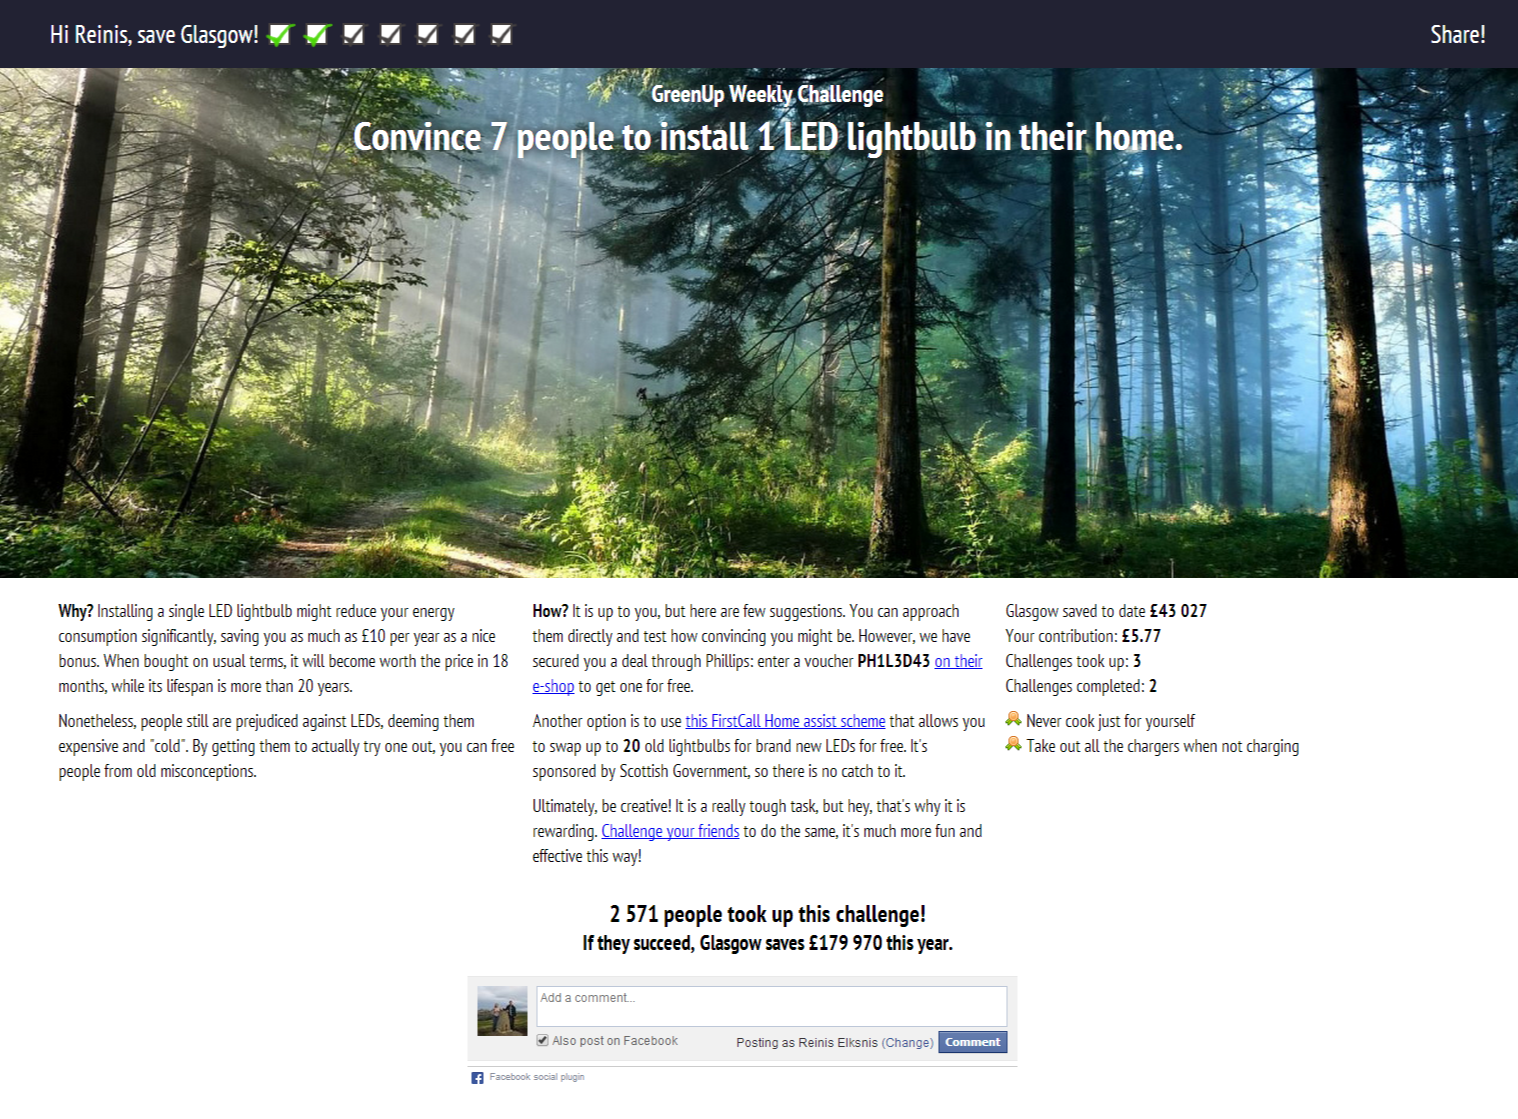
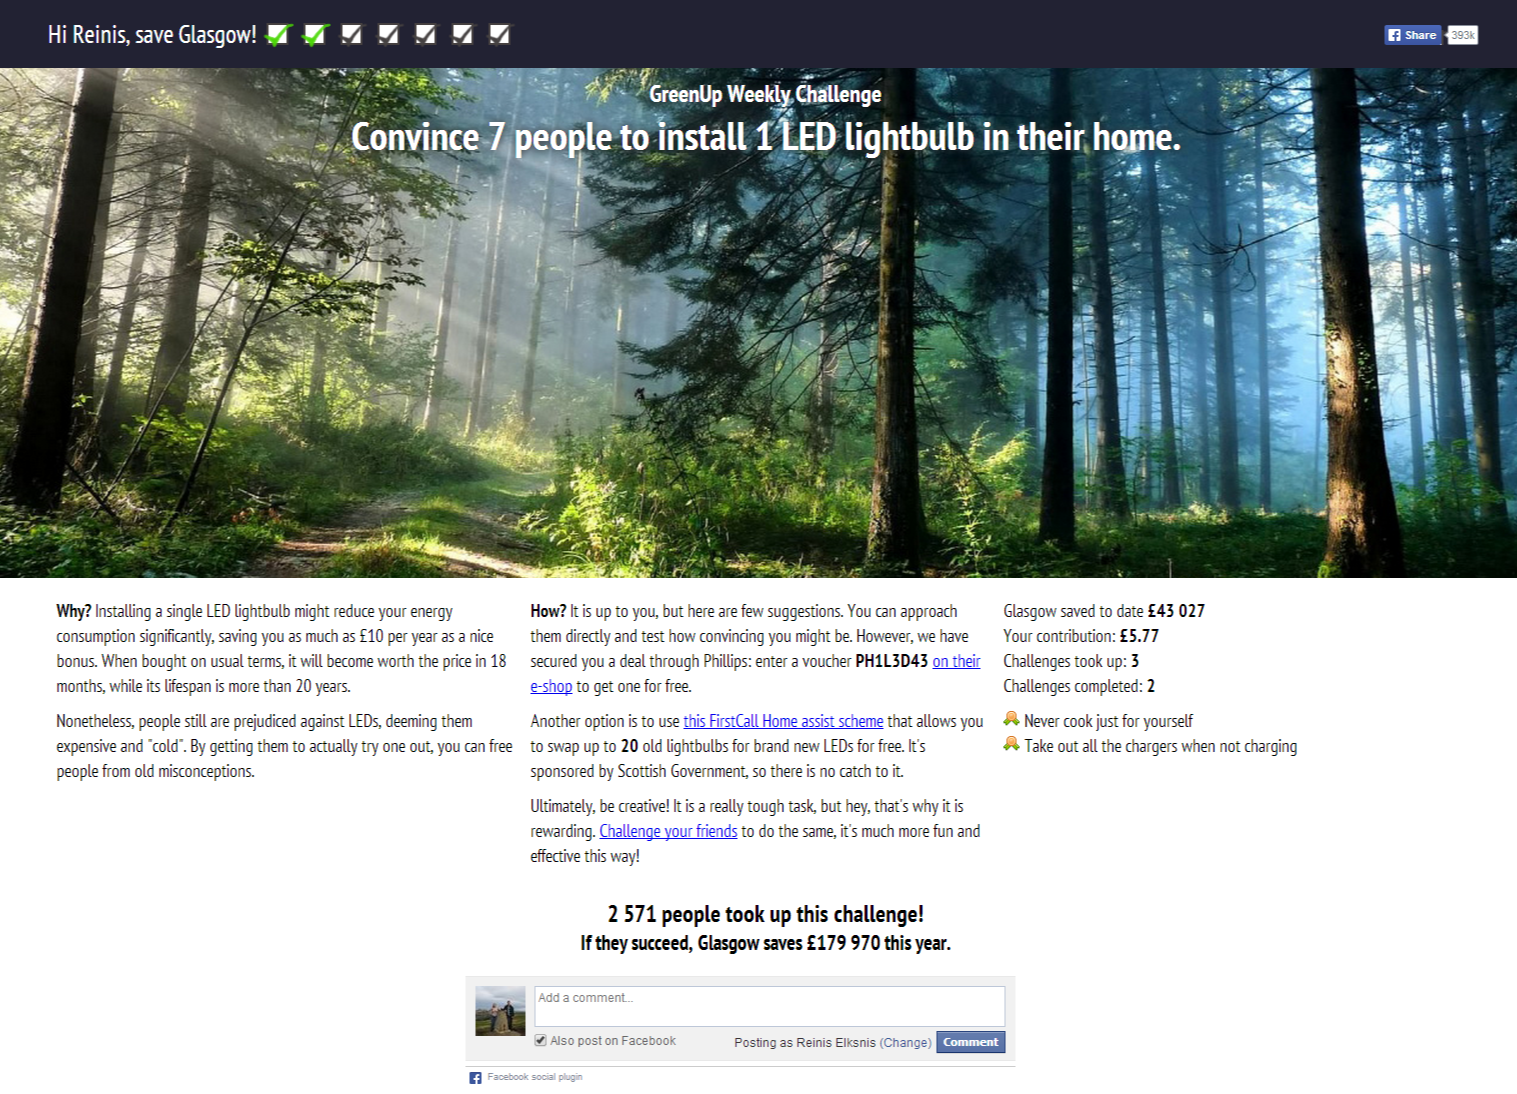
new fb share btn

Changed region(s): [[0.0, 0.0, 1.0, 0.9945]]

diff --git a/minerva/templates/index.html b/minerva/templates/index.html
@@ -34,7 +34,7 @@
 
 <nav>
 	Hi Reinis, save Glasgow! <span></span><span></span><span></span><span></span><span></span><span></span><span></span>
-	<aside>Share!</aside>
+	<aside class="fb-share-button" data-href="https://developers.facebook.com/docs/plugins/" data-type="button_count"></aside>
 </nav>
 
 <section id="challenge">

diff --git a/minerva/static/css/style.css b/minerva/static/css/style.css
@@ -36,6 +36,7 @@ nav aside {
 	float: right;
 	margin-right: 50px;
 	cursor: pointer;
+    margin-top: -5px;
 }
 nav aside:hover { text-decoration: underline; }
 
